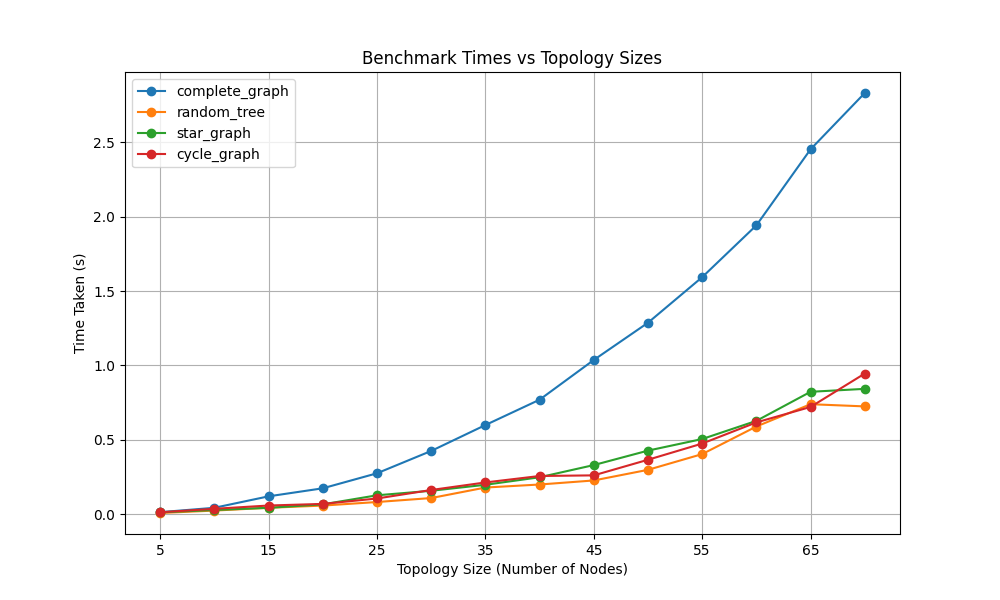
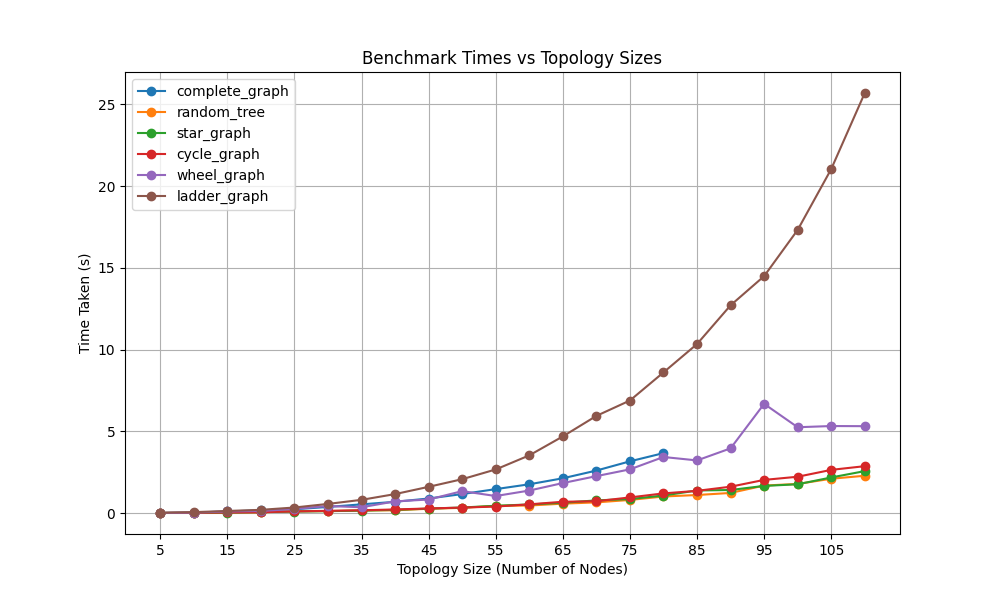
Changes to document

diff --git a/tests/createBenchmarkGraph.py b/tests/createBenchmarkGraph.py
@@ -7,7 +7,7 @@ def main():
     proj_dir = os.getcwd()
     
     graph_types = [
-        # "complete_graph", 
+        "complete_graph",
         "random_tree",
         "star_graph",
         "cycle_graph",

diff --git a/docs/TORA/results.rst b/docs/TORA/results.rst
@@ -13,9 +13,18 @@ The setup included the usage of Python and a Docker container which is included 
 Results
 ~~~~~~~~
 
-For the evaluation phase, the implementation was benchmarked within four topological structures. These four were: complete graph, ring graph, star graph, and tree. For each topology, we tested it with different topology sizes ranging from 5-75 nodes. Each run included the generation of a random topology with by using the "networkx" library for Python. Moreover, for each topology, a random source and destination was generated and the routing algorithm was run afterwards. However, to minimize the effect of randomness, the routing algorithm was run 3 times for each topology and the average of the results was taken. 
+For the evaluation phase, the implementation was benchmarked with six different topological structures. These ones tested were:
 
-Although higher number of topology was attempted to be tested, due to the limitation of the computer that this algorithm was tested on and the multi-threaded nature of AHCv2, the number of nodes couldn't go higher than 75. The results are shown in the following figure.
+- Complete graph
+- Ladder graph
+- Wheel graph
+- Ring graph,
+- Star graph
+- Tree  
+
+For each topology, we tested it with different topology sizes ranging from up to 110 nodes. Each run included the generation of a random topology with by using the "networkx" library for Python. Moreover, for each topology, a random source and destination was generated and the routing algorithm was run afterwards. However, to minimize the effect of randomness, the routing algorithm was run 3 times for each topology and the average of the results was taken. 
+
+Although higher number of topology was attempted to be tested, due to the limitation of the testing computer and the multi-threaded nature of AHCv2, the number of nodes couldn't go higher than 110. In addition for a complete graph, the maximum limit that could be tested was 80 nodes. The results are shown in the following figure.
 
 
 
@@ -28,9 +37,9 @@ Although higher number of topology was attempted to be tested, due to the limita
 Discussion
 ~~~~~~~~~~
 
-In the figure, we observe that the routing performance of TORA (Temporally Ordered Routing Algorithm) is comparable for tree, cyclic graph, and star graph topologies. However, when applied to a complete graph, TORA experiences a significant increase in routing time. This outcome is not surprising, considering that complete graphs have a larger number of edges and nodes compared to other topologies. Consequently, the higher message exchange rate in complete graphs contributes to the longer routing time.
+In the figure, we observe that the routing performance of TORA (Temporally Ordered Routing Algorithm) is comparable for tree, cyclic graph, and star graph topologies. The wheel and complete graph topology take more time than the former three but they are still on par with one another. However, TORA experiences a significant increase in routing time when it comes to the ladder graph topology. This outcome is not surprising, considering that complete graphs have a larger number of edges and nodes compared to other topologies. Consequently, the higher message exchange rate in complete graphs contributes to the longer routing time.
 
-The main takeaway from this evaluation is that TORA is a scalable routing algorithm that performs well in various topological structures. However, the routing time increases with the complexity of the topology, as seen in the complete graph scenario. This result highlights the importance of considering the network topology when selecting a routing algorithm. TORA is particularly suitable for tree, cyclic, and star graph topologies, where it demonstrates efficient routing performance.
+The main takeaway from this evaluation is that TORA is a dynamic routing algorithm that performs well in various topological structures. However, the routing time increases in a linear fashion in the case of complete graph and ladder topology. This might raise some concerns about the scalability of TORA in more complex topologies. Overall the results highlights the importance of considering the network topology when selecting a routing algorithm. TORA is particularly suitable for tree, cyclic, and star graph topologies, where it demonstrates efficient routing performance.
 
 
 

diff --git a/docs/TORA/algorithm.rst b/docs/TORA/algorithm.rst
@@ -12,9 +12,20 @@ Background and Related Work
 ~~~~~~~~~~~~~~~~~~~~~~~~~~~~~~
 
 Temporally-Ordered Routing Algorithm was originally proposed in [Park1997]_ by Vincent D. Park and M. Scott Corson. TORA is a distributed algorithm designed for mobile ad hoc networks to establish and maintain efficient routes in dynamic network environments. The algorithm is based on the concept of link reversal, where nodes maintain a logical link reversal hierarchy to facilitate routing decisions in response to topological changes.
+While other solutions existed at  the time TORA was proposed, they had some specific set of problems that TORA looked to address. The majority of these problems fall under the following categories:
+
+- They are link-state algorithms, hence not suitable for a mesh ad-hoc network
+
+- They are not efficient in routing
+
+- They can only provide one route from source to destination which means no flexibility in case of congestion
+
+As mentioned TORA eliminates such issues with its implementation.
 
 Distributed Algorithm: |TORA|
 ~~~~~~~~~~~~~~~~~~~~~~~~~~~~~~~~~~~~~~~~~~~~~~~~~~~~~~~~~~~~~~~~~~~~~~~~~~~~~~~~~~~~~~~~~~~~~~~~~~~~~~~
+
+The idea behind how TORA operates is analogous to a fluid flow scheme. In this scheme all the fluid flows from the highest point (source) to the lowest point (destination). Therefore, the there is a natural flow from upstream to downstream. Any intermediate node should have a height between the minimum and the maximum in such a way that there is always a direction towards the destination. If an intermediate node only has inbound links, it's height must be elevated to prevent the diverting the flow to this node instead of the destination.
 
 In the Temporally-Ordered Routing Algorithm (TORA), control packets play a crucial role in facilitating efficient routing in mobile wireless networks. TORA utilizes three main types of control packets: Query (QRY), Clear (CLR), and Update (UPD). When a node needs to establish or update a route to a destination, it broadcasts a Query (QRY) packet to its neighbors. Upon receiving a QRY packet, neighboring nodes determine their relative positions in the network and create a directed acyclic graph (DAG) based on this information. The DAG helps in establishing a logical link reversal hierarchy for routing decisions.
 

diff --git a/docs/TORA/introduction.rst b/docs/TORA/introduction.rst
@@ -8,7 +8,10 @@ Mobile wireless networks present a unique challenge in routing due to their dyna
 
 While several algorithms exist to address the complexity of mobile wireless networks, such as DSDV and LMR, they each have their own drawbacks. For example, not being quick enough to react to the topological changes in the network or providing a single-path route to the destination. The challenge lies in designing a routing algorithm that can provide stable and efficient routes in the face of frequent network disruptions. Previous solutions have often been limited by their inability to localize reactions to topological changes, leading to high communication overhead and slow adaptation to network dynamics. The Temporally-Ordered Routing Algorithm (TORA) offered a novel approach by providing multi-path routes, ensuring loop-free routes and rapid route establishment.
 
-This report will introduce the Temporally-Ordered Routing Algorithm and its implementation as part of the AHCv2 framework. This algorithm is highly adaptive distributed routing algorithm leading to localized reactions and minimized communication overhead. In this report we will have the following contributions:
-Contributions:
+This report will introduce the Temporally-Ordered Routing Algorithm and its implementation as part of the AHCv2 framework. This algorithm is highly adaptive distributed routing algorithm leading to localized reactions and minimized communication overhead.
+
+In this report we will have the following contributions:
+
 - Algorithm and implementation of the Temporally-Ordered Routing Algorithm (TORA) for mobile wireless networks. Implementation is detailed in Section 1.3.
+
 - Examination of the performance of this algorithms across diverse topologies scenarios. Results from these investigations are outlined in Section 1.4.

diff --git a/docs/TORA/conclusion.rst b/docs/TORA/conclusion.rst
@@ -3,4 +3,4 @@
 Conclusion
 ==========
 
-This document has provided the explanation, implementation and evaluation of the Temporally-Ordered Routing Algorithm (TORA) which was first introduced in 1997. The algorithm is a distributed routing protocol that is designed to be used in mobile ad-hoc networks (MANETs). The main benefits of this algorithm are it being highly adaptable to network changes and providing multi-path routes to prevent congestion. In section 1.2 we describe the algorithm at the high-level and provided an example of how it works. The algorithm is based on the concept of link reversal and is used to establish and maintain routes in the network. In section 1.3 and 1.4 we tested it with different topologies and number of nodes, then discussed the implications of the results.
+This document has provided the explanation, implementation and evaluation of the Temporally-Ordered Routing Algorithm (TORA) which was first introduced in 1997. The algorithm is a distributed routing protocol that is designed to be used in mobile ad-hoc networks. The main benefits of this algorithm are it being highly adaptable to network changes and providing multi-path routes to prevent congestion. Altough TORA is able to address issues that other routing protocols such as LMR had, it is shown that later algorithms such as DSR were more efficient and are more widely used in the real-world [Biradar2006]_. In section 1.2 we describe the algorithm at the high-level and provided an example of how it works. The algorithm is based on the concept of link reversal and is used to establish and maintain routes in the network. In section 1.3 and 1.4 we tested it with different topologies and number of nodes, then discussed the implications of the results. 
